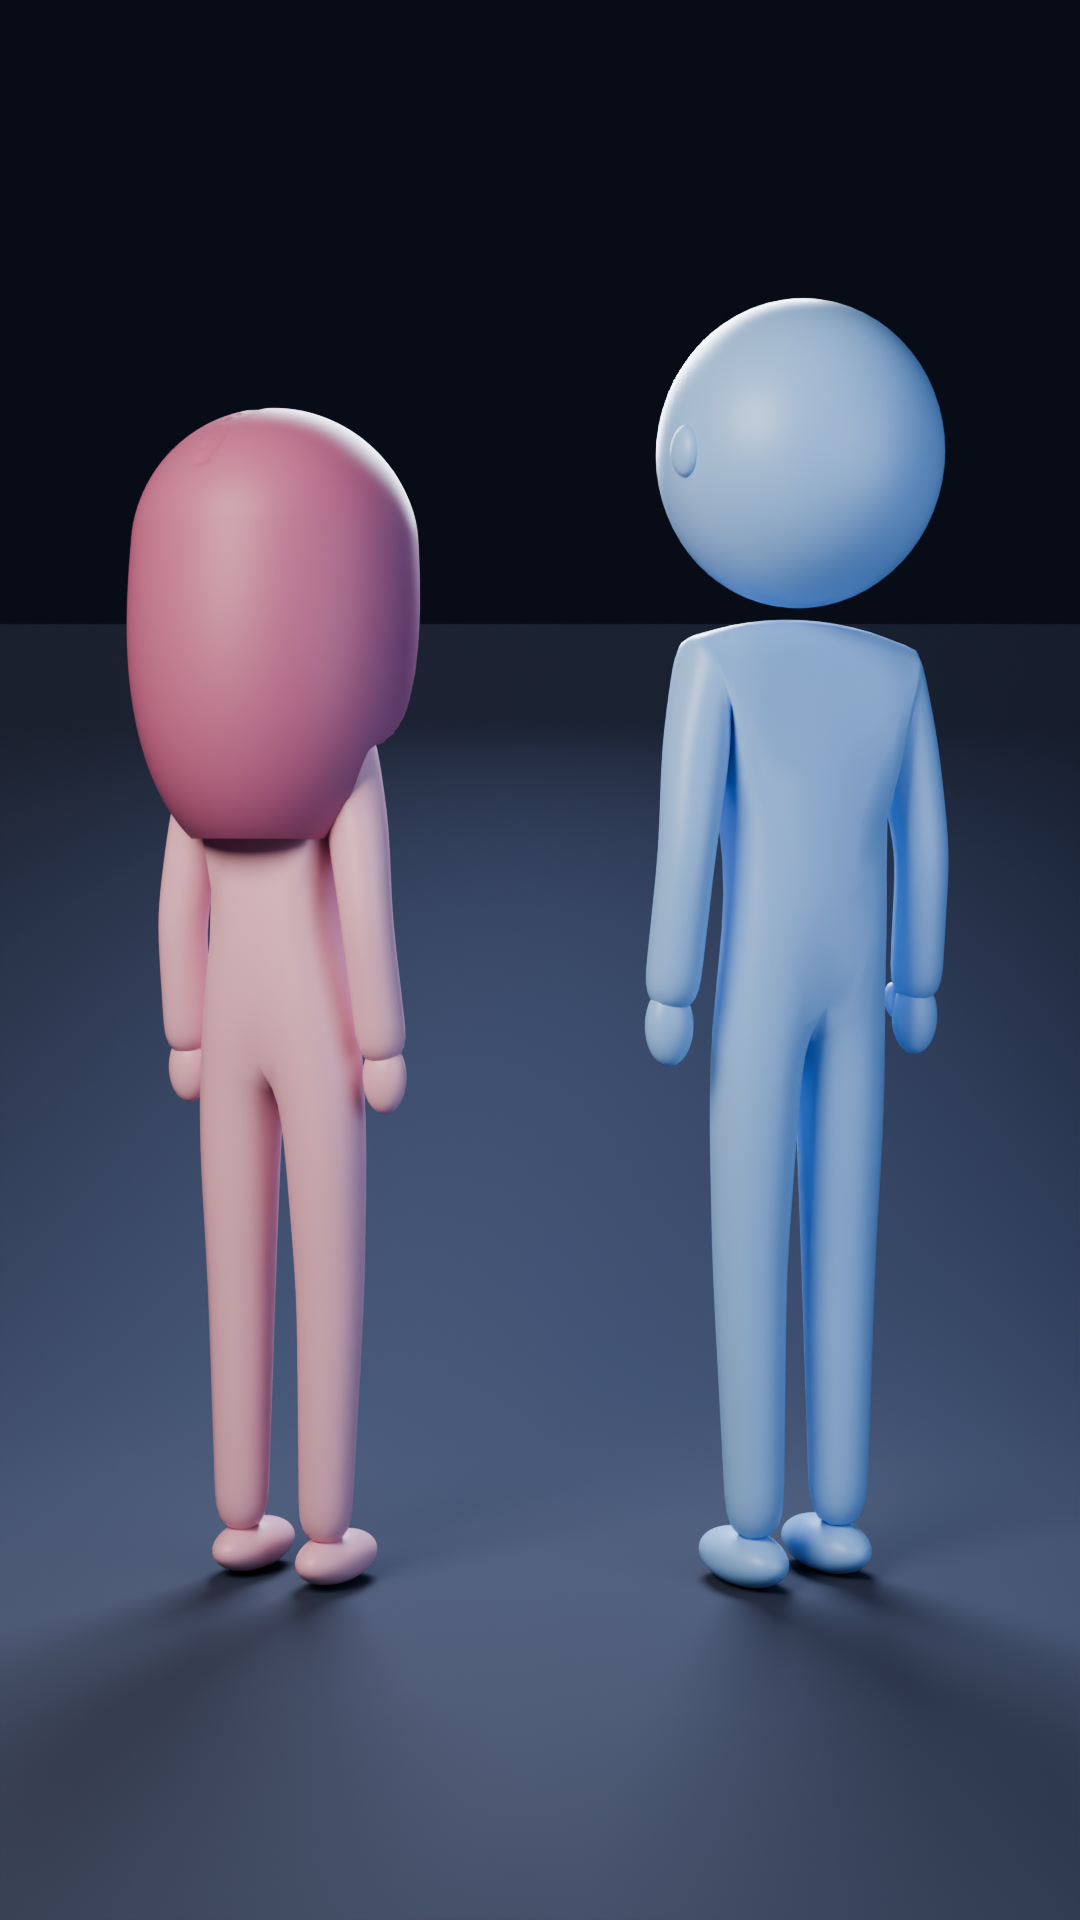
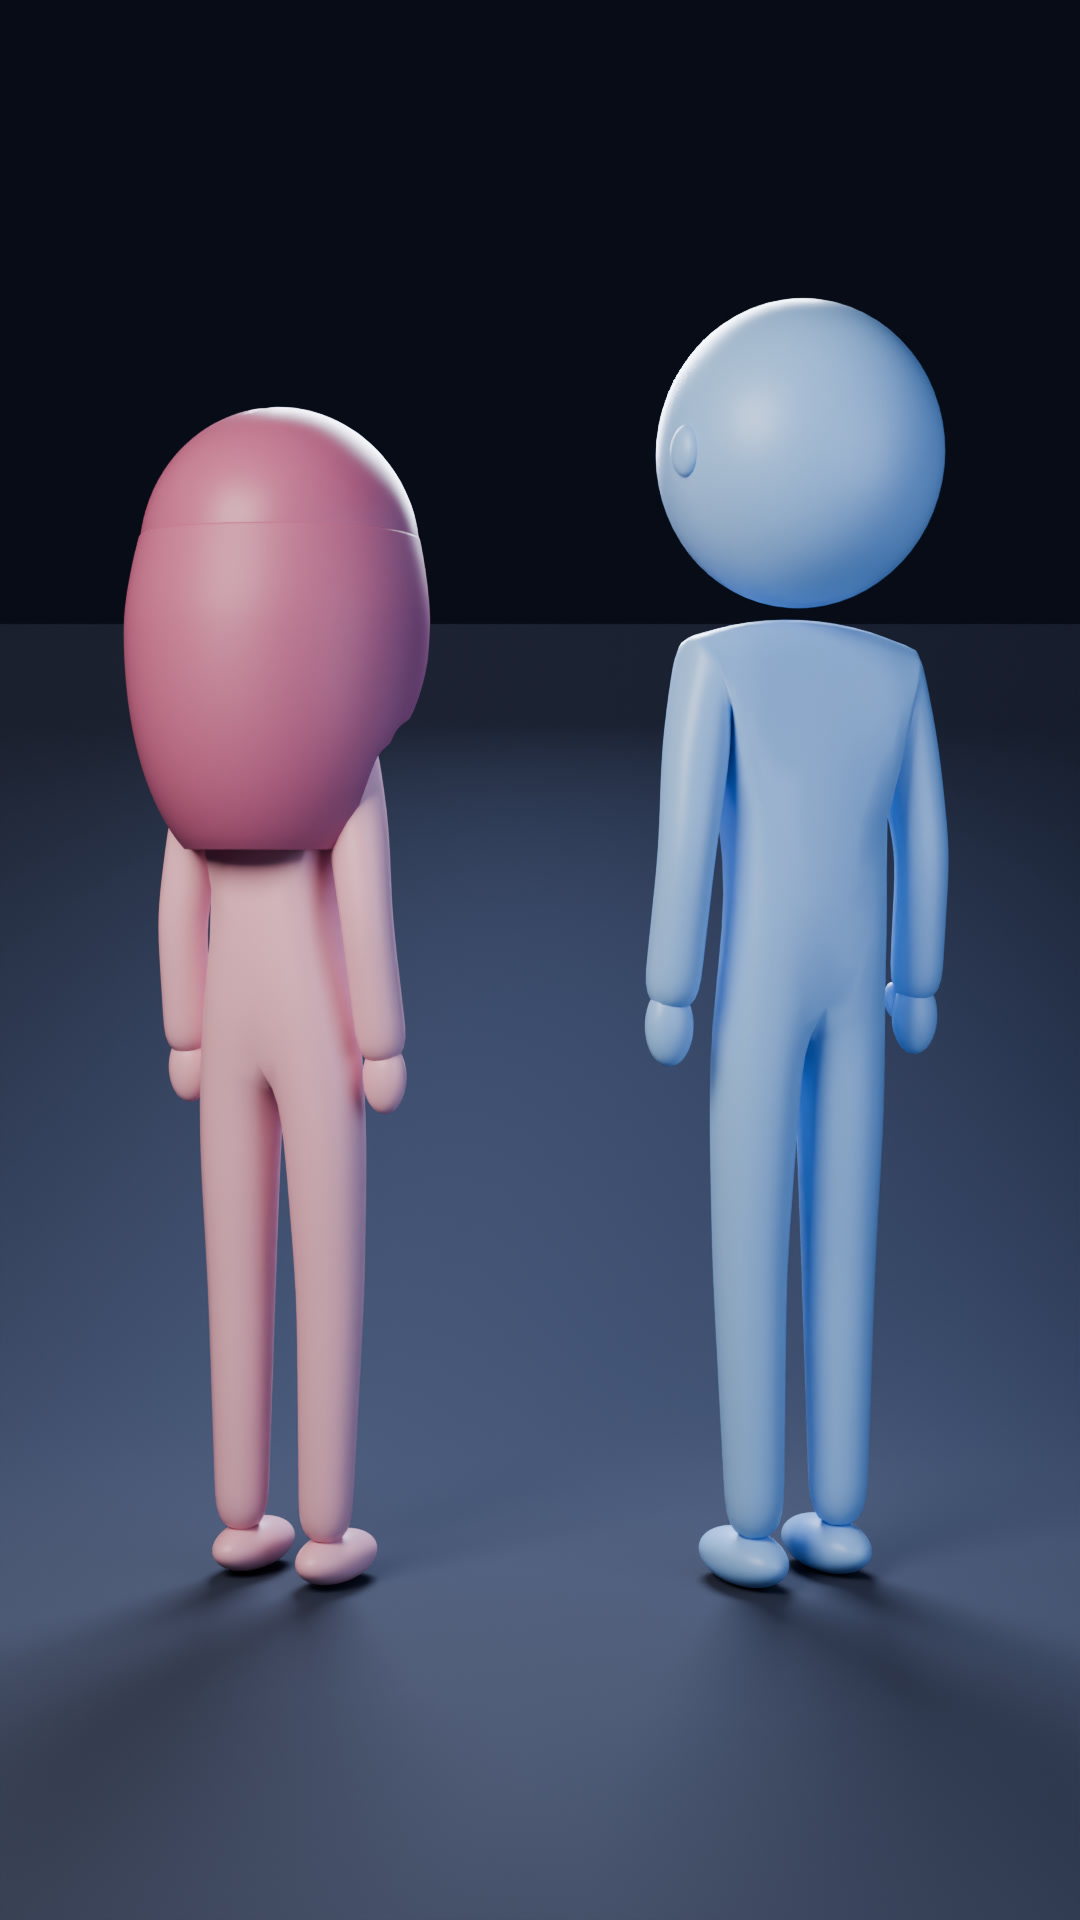
Hair on the head is part of the head (raised, colour-blended) so there is no edge at the face; curtain emerges smoothly
Claude-Session: https://claude.ai/code/session_01FQFJKx8X2643G2hLZWtcZT

diff --git a/blender_figures/figures.py b/blender_figures/figures.py
@@ -109,53 +109,59 @@ def figure(w):
         arc(on_head(H, R, (s * 0.38, -1, 0.42), 0.002), on_head(H, R, (s * 0.38, -1, 0.42)) - H, (0, 0, 1), 0.036 * k, 0.0055, 20, 160, INK)
     arc(on_head(H, R, (0, -1, -0.38), 0.002), on_head(H, R, (0, -1, -0.38)) - H, (0, 0, 1), 0.04 * k, 0.0065, 205, 335, INK)   # smile
     if w:
-        # hair: ONE continuous shell around the head, open for the face, falling just below the shoulders
-        bpy.ops.mesh.primitive_uv_sphere_add(segments=160, ring_count=90, radius=1.0, location=(0, 0, 0))
+        # hair on the head = part of the head itself: a raised region with a soft colour/shape blend into the face
+        head = [o for o in made if o.name.startswith("head")][-1]
+        bpy.ops.object.select_all(action="DESELECT"); head.select_set(True); bpy.context.view_layer.objects.active = head
+        sub_ = head.modifiers.new("sub", "SUBSURF"); sub_.levels = sub_.render_levels = 1
+        bpy.ops.object.modifier_apply(modifier="sub")
+        me = head.data
+        col = me.color_attributes.new("hairmask", "FLOAT_COLOR", "POINT")
+        def window(d):    # >0 outside the face opening (hair), <0 inside (face)
+            if d.y >= -0.05: return 1.0
+            e = ((d.x / 0.8) ** 2 + (d.z / 0.72) ** 2) ** 0.5 - 1 if d.z >= 0 else abs(d.x) / 0.8 - 1
+            if d.z < -0.2: e = min(e, -0.2 - d.z - 0.0) if abs(d.x) < 0.8 else e   # jaw stays skin
+            return e
+        def sstep(a, b, x):
+            t = min(1, max(0, (x - a) / (b - a))); return t * t * (3 - 2 * t)
+        for v, c in zip(me.vertices, col.data):
+            d = v.co.normalized()
+            h = sstep(-0.02, 0.1, window(d))
+            if d.z < -0.35 and d.y < 0.4: h = min(h, sstep(-0.6, -0.35, d.z))       # no hair under the chin
+            part = sstep(0.0, 0.06, abs(d.x)) if (d.z > 0.45 and d.y < 0.35) else 1.0  # soft centre part
+            v.co = v.co * (1 + 0.075 * h * (0.75 + 0.25 * part))
+            c.color = (h, h, h, 1)
+        # material: mix skin and hair by the mask
+        hm = bpy.data.materials.new("skin_hair"); hm.use_nodes = True; nt = hm.node_tree
+        bsdf = nt.nodes["Principled BSDF"]; attr = nt.nodes.new("ShaderNodeAttribute"); attr.attribute_name = "hairmask"
+        mix = nt.nodes.new("ShaderNodeMix"); mix.data_type = "RGBA"
+        mix.inputs[6].default_value = PINK.node_tree.nodes["Principled BSDF"].inputs["Base Color"].default_value
+        mix.inputs[7].default_value = HAIR.node_tree.nodes["Principled BSDF"].inputs["Base Color"].default_value
+        nt.links.new(attr.outputs["Fac"], mix.inputs[0]); nt.links.new(mix.outputs[2], bsdf.inputs["Base Color"])
+        bsdf.inputs["Roughness"].default_value = 0.42; bsdf.inputs["Subsurface Weight"].default_value = 0.06
+        head.data.materials.clear(); head.data.materials.append(hm)
+        # the hanging part: a curtain from the ears down to just below the shoulders, its top hidden inside the head
+        bpy.ops.mesh.primitive_uv_sphere_add(segments=128, ring_count=72, radius=1.0, location=(0, 0, 0))
         hs = bpy.context.active_object; hs.name = "hair"
         bm = bmesh.new(); bm.from_mesh(hs.data)
-        drop = (H.z - R) - (z(1.22) - 0.14)                      # how far the ends hang below the head
+        drop = (H.z - R) - (z(1.22) - 0.14)
         kill = []
         for v in bm.verts:
             d = v.co.normalized()
-            # face window: narrow at the centre part, opening down to the cheeks (forehead + brows free)
-            # face opening: a smooth arch over the forehead that continues straight down the cheeks (no ledge)
-            inside = ((d.x / 0.8) ** 2 + (d.z / 0.72) ** 2 < 1.0) if d.z >= 0 else abs(d.x) < 0.8
-            face = d.y < -0.15 and inside
-            chin = d.y < 0.05 and d.z < -0.2 and abs(d.x) < 0.8         # nothing in front of the neck
-            if face or chin or d.z < -0.9: kill.append(v); continue
-            rr = R * (1.07 + 0.02 * max(0, d.z))
-            if abs(d.x) < 0.06 and d.z > 0.55: rr *= 0.985              # soft centre part
-            t = max(0.0, (0.15 - d.z) / 1.05)                           # 0 above the ears .. 1 at the bottom
-            sp = 1 + 0.12 * t ** 1.3                                    # ends flare a little
-            x, y = d.x * rr * sp, d.y * rr * sp + 0.02 * t
-            v.co = Vector((x, y, d.z * rr - drop * t ** 0.9))
+            if d.z > 0.25 or (d.y < -0.05 and window(d) < 0.05) or (d.y < 0.05 and d.z < -0.2 and abs(d.x) < 0.8) or d.z < -0.9:
+                kill.append(v); continue
+            t = max(0.0, (0.15 - d.z) / 1.05)
+            em = sstep(0.28, -0.15, d.z)                        # emerges tangentially out of the head
+            rr = R * (1.0 + 0.095 * em); sp = 1 + 0.12 * t ** 1.3
+            v.co = Vector((d.x * rr * sp, d.y * rr * sp + 0.02 * t, d.z * rr - drop * t ** 0.9))
         bmesh.ops.delete(bm, geom=kill, context="VERTS")
         edge = set(v for v in bm.verts if v.is_boundary)
         ring = set(e.other_vert(v) for v in edge for e in v.link_edges) | edge
-        ring2 = set(e.other_vert(v) for v in ring for e in v.link_edges) | ring
-        for _ in range(30): bmesh.ops.smooth_vert(bm, verts=list(edge), factor=0.5, use_axis_x=True, use_axis_y=True, use_axis_z=True)
-        for _ in range(10): bmesh.ops.smooth_vert(bm, verts=list(ring2), factor=0.4, use_axis_x=True, use_axis_y=True, use_axis_z=True)
-        # distance (in edge rings) from the face opening
-        ringd = {v: 0 for v in edge}; front = list(edge); NR = 7
-        for i in range(1, NR + 1):
-            nxt = []
-            for v in front:
-                for e in v.link_edges:
-                    o = e.other_vert(v)
-                    if o not in ringd: ringd[o] = i; nxt.append(o)
-            front = nxt
-        dl = bm.verts.layers.deform.verify()
-        for v in bm.verts:
-            i = ringd.get(v, NR); s_ = (i / NR) ** 0.7
-            if i < NR:                                    # pull the edge in until it lies flush on the head
-                n = v.co.normalized(); cur = v.co.length
-                zf = min(1.0, max(0.0, (v.co.z + R * 0.75) / (R * 0.6)))   # fades out below the cheeks
-                v.co = n * (cur - (1 - s_) * zf * (cur - R * 1.0))
-            v[dl][0] = 0.12 + 0.88 * s_
+        ring = set(e.other_vert(v) for v in ring for e in v.link_edges) | ring
+        for _ in range(40): bmesh.ops.smooth_vert(bm, verts=list(edge), factor=0.5, use_axis_x=True, use_axis_y=True, use_axis_z=True)
+        for _ in range(15): bmesh.ops.smooth_vert(bm, verts=list(ring), factor=0.4, use_axis_x=True, use_axis_y=True, use_axis_z=True)
         bm.to_mesh(hs.data); bm.free()
-        hs.vertex_groups.new(name="thick")
-        hs.location = H + Vector((0, 0.012, 0))
-        so = hs.modifiers.new("thick", "SOLIDIFY"); so.thickness = 0.03; so.offset = -1; so.vertex_group = "thick"; so.thickness_vertex_group = 0.12
+        hs.location = H + Vector((0, 0.0, 0)); hs.scale = (0.97, 0.98, 1.03)
+        so = hs.modifiers.new("thick", "SOLIDIFY"); so.thickness = 0.026; so.offset = 0
         sb = hs.modifiers.new("sub", "SUBSURF"); sb.levels = sb.render_levels = 2
         smooth(hs); hs.data.materials.append(HAIR); reg(hs)
     else:
